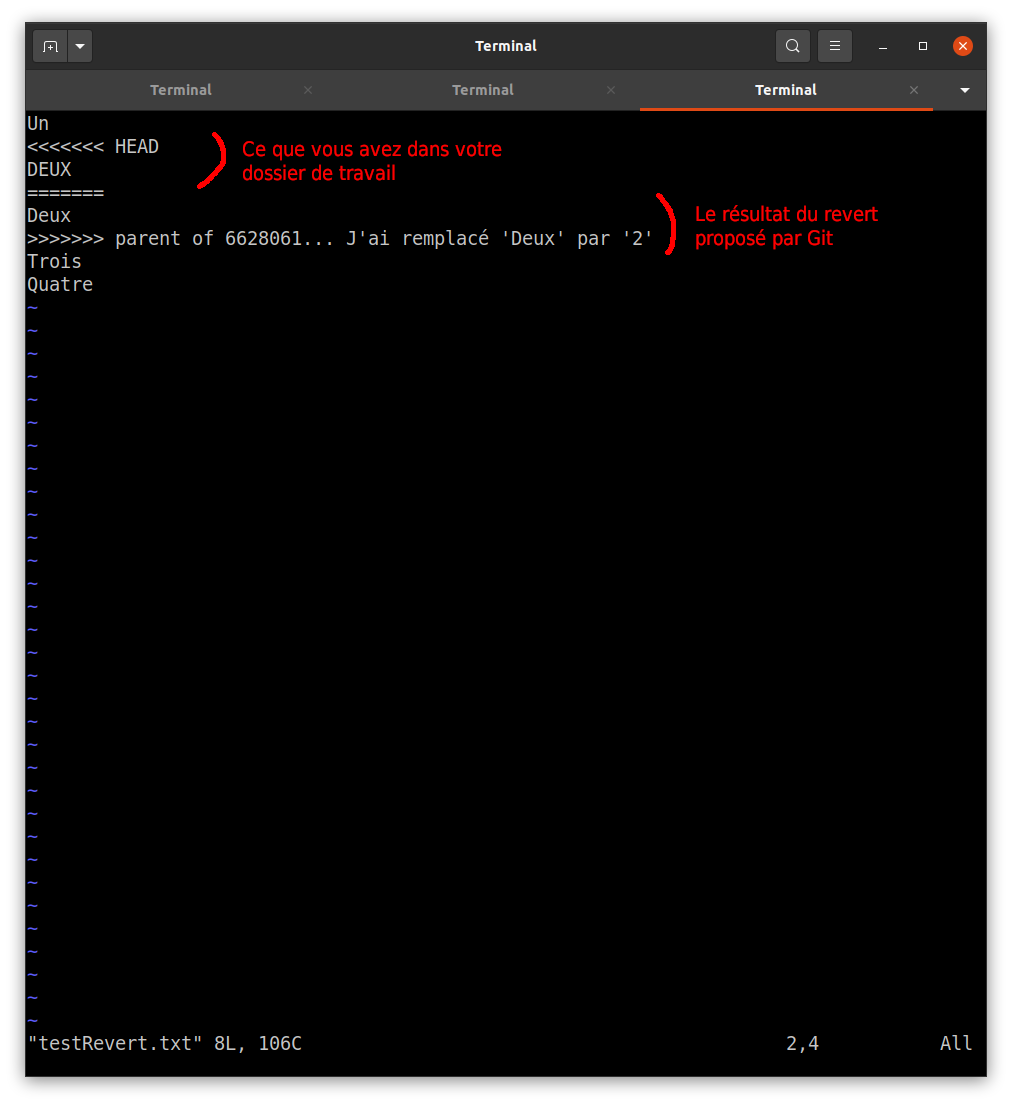
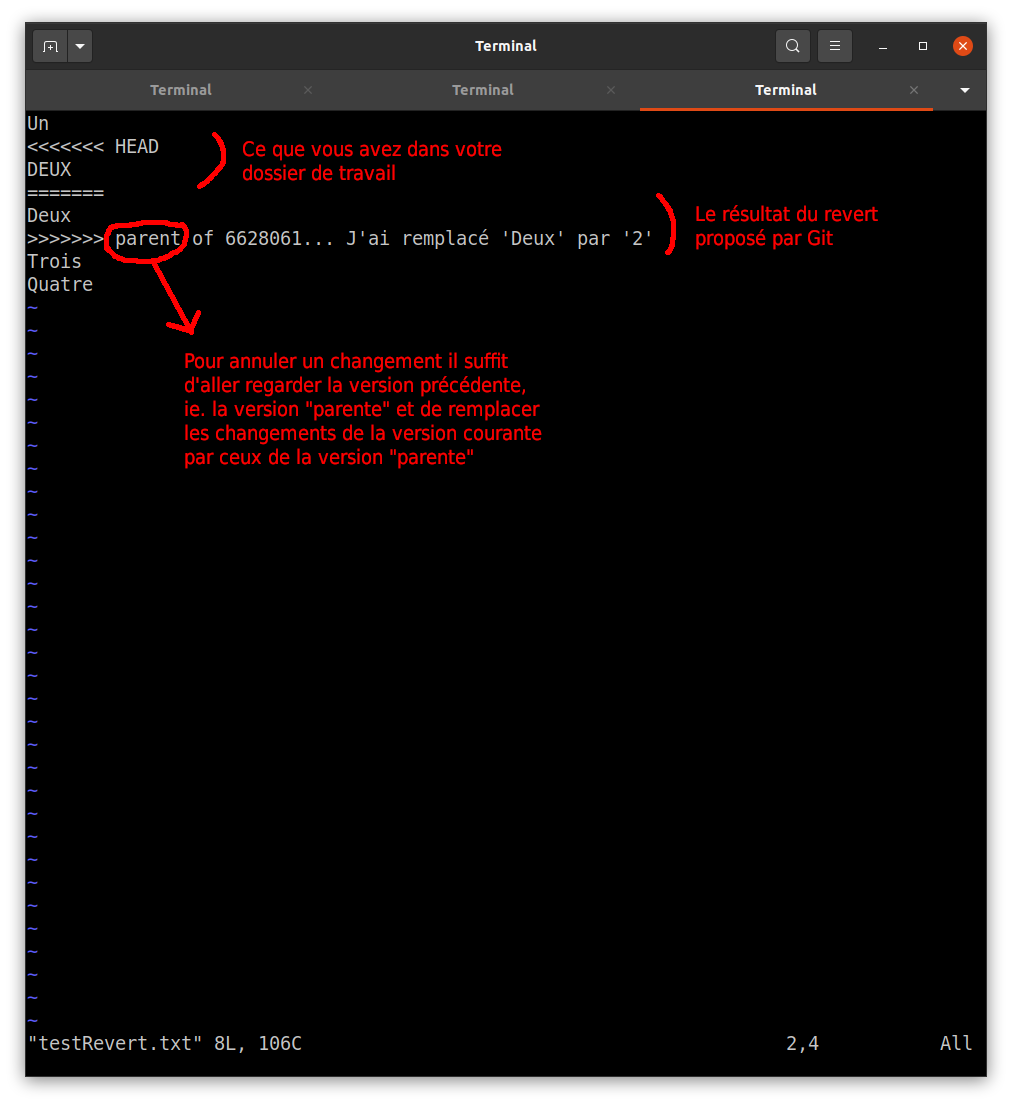
Le module 1 devrait être stable maintenant. J'ai revu les parties sur les annulations/suppression et apporté quelques précisions

Changed region(s): [[0.0919, 0.1846, 0.5514, 0.4308]]

diff --git a/docs/diapos_formation/diapos_latex/1_seulLocalMonobranche.tex b/docs/diapos_formation/diapos_latex/1_seulLocalMonobranche.tex
@@ -56,8 +56,8 @@ and then push using the remote name
     \end{mdframed}
 \end{frame}
 
-\begin{frame}[fragile]
-\frametitle{git help [<nomDeLaCommande>]}
+\begin{frame}[fragile]{git help <nomDeLaCommande>}
+Les commandes Git ont souvent des options qui modifient leurs comportements. Si vous utilisez souvent une commande vous aurez certainement envie d'ouvrir son manuel grâce à \textit{git help <nomCmd>} pour connaître ses options et syntaxes alternatives:
 \begin{mdframed}[style=Bash]
     \begin{lstlisting}[style=Bash, caption={Extrait d'un appel de git help sur la commande "add"}]
 crex@crex:~/projects/test$ git help add
@@ -67,8 +67,14 @@ NAME
        git-add - Add file contents to the index
     \end{lstlisting}
 \end{mdframed}
+\underline{Note:} Pour les utilisateurs de Linux, \textit{git help <nomCmd>} est l'équivalent du \textit{man <nomCmd>} mais pour Git!
+\end{frame}
 
-\textbf{\underline{IMPORTANT:}} Le nom de la commande est optionnel. Si vous entrez uniquement "\textbf{git help -a}" vous aurez toutes les commandes git qui existent. Celles que nous aborderont sont dans la premère catégorie 'Main Porcelain Command'
+\begin{frame}{git help [-a]}
+\textbf{\underline{IMPORTANT:}} Le nom de la commande est optionnel avec \textit{git help}. Si vous entrez simplement \textit{git help} vous aurez un résumé des commandes les plus courantes.\\
+\medskip
+
+Si vous entrez uniquement "\textbf{git help -a}" vous aurez toutes les commandes git qui existent. Celles que nous aborderont sont dans la premère catégorie 'Main Porcelain Command'
 \end{frame}
 
 \begin{frame}
@@ -436,8 +442,8 @@ La commande "git checkout <nom\_commit>" permet de déplacer le pointeur "HEAD".
 \begin{frame}{À propos des noms de commit}
 Il y a plusieurs façons d'obtenir un nom de commit:
 \begin{itemize}
-    \item Le nom absolu: "git log" + vous prenez les 6 premiers caractères (inutile de donner toute la clef!)
-    \item Le nom relatif: Exemple HEAD$\sim$2\string^3
+    \item Le nom absolu: "git log" + vous prenez les 4 ou 5 premiers caractères (inutile de donner toute la clef!)
+    \item Le nom relatif: Exemple HEAD$\sim$2\string^3 => il vaut pour un numéro de commit! Seule différence: il est relatif
 \end{itemize}
 \end{frame}
 
@@ -510,27 +516,50 @@ HEAD is now at a1a8a9d Initial commit
     \tableofcontents[sectionstyle=show/hide,subsectionstyle=show/show/hide]
   \end{frame}
 }
+\section{Annuler des versions}
+
+
+% Subsection:
+\subsection{Annulez au lieu de supprimer!}
+\begin{frame}{Commande: git revert -n <older\_id>\string^..<newer\_id>}
+Cette commande crée un commit qui contient l'annulation de tous les changements des commits spécifiés dans l'intervalle \textit{<older\_id>\string^..<newer\_id>}\\
+\medskip 
+C'est-à-dire l'intervalle: [<older\_id>; <newer\_id>]
+\vspace{0.7cm}
+
+
+\textbf{IMPORTANT:} L'option "-n" évite la création automatique d'un commit. Cela présente plusieurs avantages:
+\begin{enumerate}
+	\item Ça laisse le temps de réfléchir à son annulation
+	\item Ça évite une "cascade" de commits d'annulations
+	\item Si vous voulez "annuler l'annulation" vous pouvez le faire très rapidement
+	      avec la commande \textit{git revert HEAD}
+\end{enumerate}
+\end{frame}
+
+
+% Subsection:
+\subsection{Annuler un changement apporté par une version donnée}
+\begin{frame}
+	Cette question ne sera pas abordée ici car elle demande une assez bonne connaissance de Git et notamment de la résolution des conflits. Elle est abordée dans le module "bonus" associé à ce module. 
+\end{frame}
+
+
+
+%% --------------------- %%
+%%        SECTION        %%
+%% --------------------- %%
+\AtBeginSection[]
+{
+  \begin{frame}
+    \frametitle{Table of Contents}
+    \tableofcontents[sectionstyle=show/hide,subsectionstyle=show/show/hide]
+  \end{frame}
+}
 \section{Supprimer des changements ou des versions}
 
 % Subsection:
-\subsection{Supprimer définitivement des changements ou des versions}
-\begin{frame}{Commande: git reset $--$hard <numero\_commit>}
-La commande \textit{git reset $--$hard} permet d'annuler tous les commits qui ont été faits après le commit spécifié et de faire revenir ses fichiers à l'état du commit spécifié.
-\medskip
-
-Il n'est pas utile d'indiquer l'entièreté du numéro du commit, seuls les 6 premiers caractères suffisent.
-\medskip
-
-\textbf{ATTENTION!} C'est une commande très dangereuse... Ce qui est perdu est perdu définitivement! À n'utiliser qu'en cas de dernier recours.
-\end{frame}
-
-\begin{frame}{Commande: git reset $--$hard (sans paramètre)}
-La commande \textit{git reset $--$hard} sans paramètre permet d'annuler tous les changements en cours dans votre dossier de travail. L'historique des modifications n'est pas touché!\\
-\medskip
-
-C'est une façon très pratique de repartir de 0 quand on n'est pas satisfait de ce qu'on a écrit...
-\end{frame}
-
+\subsection{Supprimer définitivement des changements sur un seul fichier}
 \begin{frame}{git restore <file>}
 Permet de restaurer un seul fichier à l'état de son dernier commit.\\
 \medskip
@@ -541,21 +570,29 @@ Permet de restaurer un seul fichier à l'état de son dernier commit.\\
 Le lendemain matin vous reprenez votre code et il est truffé de bug. Vous voulez "revert" uniquement ce fichier (les autres ont l'air bon) => \textit{git restore <nom\_fichier>}
 \end{frame}
 
+
 % Subsection:
-\subsection{Annuler des changements apportés par des versions}
-\begin{frame}{Commande: git revert -n <older\_id>\string^..<newer\_id>}
-Cette commande crée un commit qui contient l'annulation de tous les changements des commits spécifiés dans l'intervalle \textit{<older\_id>\string^..<newer\_id>}
-\vspace{0.8cm}
+\subsection{Supprimer définitivement des changements sur tous les fichiers}
+\begin{frame}{Commande: git reset $--$hard (sans paramètre)}
+La commande \textit{git reset $--$hard} sans paramètre permet d'annuler tous les changements en cours dans votre dossier de travail. L'historique des modifications n'est pas touché!\\
+\medskip
 
-
-\textbf{IMPORTANT:} L'option "-n" évite la création automatique d'un commit. Cela présente plusieurs avantages:
-\begin{enumerate}
-	\item Ça laisse le temps de réfléchir à son annulation
-	\item Ça évite une "cascade" de commits d'annulations
-	\item Si vous voulez "annuler l'annulation" vous pouvez le faire très rapidement
-	      avec la commande \textit{git revert HEAD$\sim$1}
-\end{enumerate}
+C'est une façon très pratique de repartir de 0 quand on n'est pas satisfait de ce qu'on a écrit...
 \end{frame}
+
+
+% Subsection:
+\subsection{Supprimer définitivement des versions}
+\begin{frame}{Commande: git reset $--$hard <numero\_commit>}
+La commande \textit{git reset $--$hard <numero\_commit>} permet d'annuler tous les commits qui ont été faits après le commit spécifié et de faire revenir ses fichiers à l'état du commit spécifié.
+\medskip
+
+Il n'est pas utile d'indiquer l'entièreté du numéro du commit, seuls les 4 (ou 5) premiers caractères suffisent.
+\medskip
+
+\textbf{ATTENTION!} C'est une commande très dangereuse... Ce qui est perdu est perdu définitivement! À n'utiliser qu'en cas de dernier recours.
+\end{frame}
+
 
 
 \end{document}
